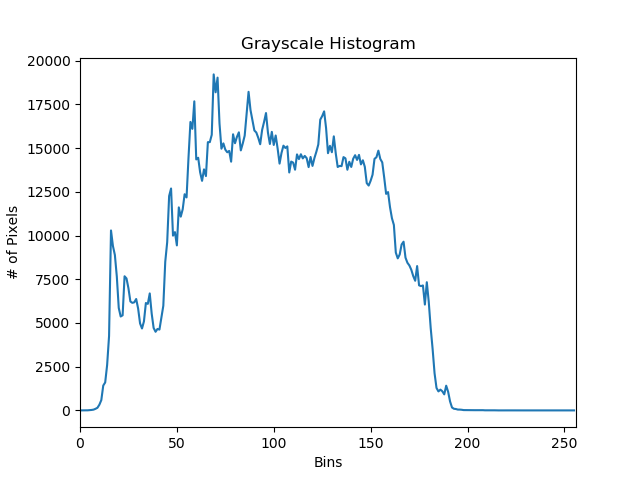
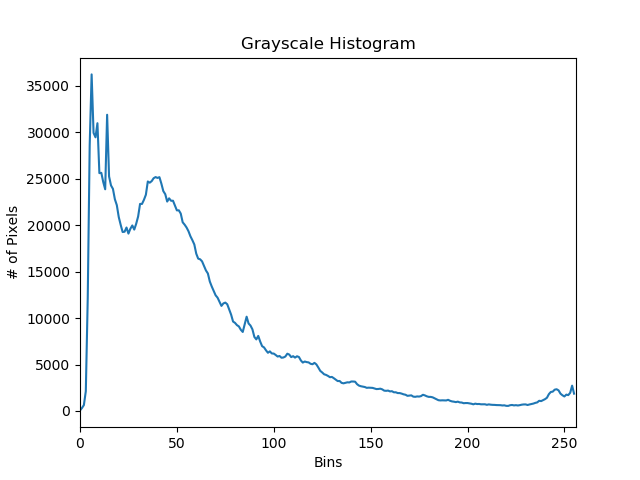
use temp file to save hist figure

diff --git a/main.py b/main.py
@@ -3,9 +3,7 @@ from tkinter.filedialog import askopenfilename
 import processing as pc
 from PIL import Image, ImageTk
 
-import matplotlib
-from matplotlib.pylab import mpl
-from matplotlib.backends.backend_tkagg import FigureCanvasTkAgg,NavigationToolbar2Tk #NavigationToolbar2TkAgg
+
 
 
 image_file = None
@@ -38,41 +36,27 @@ def open_image():
     image_file = Image.open(filepath)
     # 期望图像显示的大小
     w_box = 500
-    h_box = 700
-    showimg(image_file, imgleft, w_box,h_box)
-    showimg(image_file, imgright,w_box,h_box)
+    h_box = 300
+    showimg(image_file, imgleft, w_box, h_box)
+    showimg(image_file, imgright, w_box, h_box)
 
 
 def save_image():
     pass
 
-
 def hst_eql():
-    PILimg, PIL_gary = pc.hist_eql(image_file)
+    PIL_eq, PIL_gary = pc.hist_eql(image_file)
     # 期望图像显示的大小
     w_box = 500
-    h_box = 700
+    h_box = 300
+    showimg(PIL_gary, imgleft, w_box, h_box)
+    histO = Image.open('images/templeft.png')
+    showimg(histO, histleft, w_box,h_box )
 
-    # 缩放图像让它保持比例，同时限制在一个矩形框范围内
-    w, h = PIL_gary.size
-    img_resize = resize(w, h, w_box, h_box, PIL_gary)
-    # 将image转换成ImageTk
-    originimage = ImageTk.PhotoImage(image=img_resize)
-    # imgleft 更新图片
-    imgleft.config(image=originimage)
-    imgleft.image = originimage
-    pc.drawHist(PIL_gary,'left')
-    # draw_hist(PIL_gary, 'left')
-
-    # 缩放图像让它保持比例，同时限制在一个矩形框范围内
-    w, h = PILimg.size
-    img_resize = resize(w, h, w_box, h_box, PILimg)
-    # 将image转换成ImageTk
-    proceimage = ImageTk.PhotoImage(image=img_resize)
-    # imgright 更新图片
-    imgright.config(image=proceimage)
-    imgright.image = proceimage
-    pc.drawHist(PILimg,'right')
+    showimg(PIL_eq, imgright, w_box, h_box)
+    histE = Image.open('images/tempright.png')
+    showimg(histE, histright, w_box,h_box )
+    # pc.drawHist(PIL_img,'right')
     # draw_hist(PILimg, 'right')
 
 
@@ -119,7 +103,7 @@ def edge():
 
 root = tk.Tk()
 root.title('简单的图像处理')
-root.geometry('1300x768')
+root.geometry('1100x700')
 
 # 菜单栏
 menubar = tk.Menu(root)
@@ -142,10 +126,15 @@ frm_right = tk.Frame(frm)
 frm_left.pack(side='left')
 frm_right.pack(side='right')
 
-imgleft = tk.Label(frm_left,bg='blue')
-imgright = tk.Label(frm_right,bg='yellow')
+imgleft = tk.Label(frm_left)
+histleft = tk.Label(frm_left)
+
+imgright = tk.Label(frm_right)
+histright = tk.Label(frm_right)
 imgleft.pack()
+histleft.pack()
 imgright.pack()
+histright.pack()
 # canvasl = tk.Canvas(frm_left, bg='white').pack()
 # canvasr = tk.Canvas(frm_right, bg='white').pack()
 

diff --git a/processing.py b/processing.py
@@ -18,21 +18,23 @@ def CV_img2PIL_img(CVimg):
 def hist_eql(pil_img):
     cv_img = PIL_img2CV_img(pil_img)
     gray = cv2.cvtColor(cv_img, cv2.COLOR_BGR2GRAY)
+    save_hist(gray, 'left')
     # equalize Hist方法 直方图均衡化
     CV_img_eq = cv2.equalizeHist(gray)
+    save_hist(CV_img_eq, 'right')
+
     # 将灰色通道图和均衡化结果 转回BGR通道
     CV_img_eq = cv2.cvtColor(CV_img_eq, cv2.COLOR_GRAY2BGR)
     CV_img_gray = cv2.cvtColor(gray, cv2.COLOR_GRAY2BGR)
+
     # 变换为BIL图返回
     PIL_img_gray = CV_img2PIL_img(CV_img_gray)
     PIL_img_eq = CV_img2PIL_img(CV_img_eq)
     return PIL_img_eq, PIL_img_gray
 
 
-def drawHist(pil_img, side):
-    # 图像直方图
-    image = PIL_img2CV_img(pil_img)
-    hist = cv2.calcHist([image], [0], None, [256], [0, 256])
+def save_hist(cv_img, side):
+    hist = cv2.calcHist([cv_img], [0], None, [256], [0, 256])
     f = plt.figure()  # 新建一个图像
     plt.title("Grayscale Histogram")  # 图像的标题
     plt.xlabel("Bins")  # X轴标签
